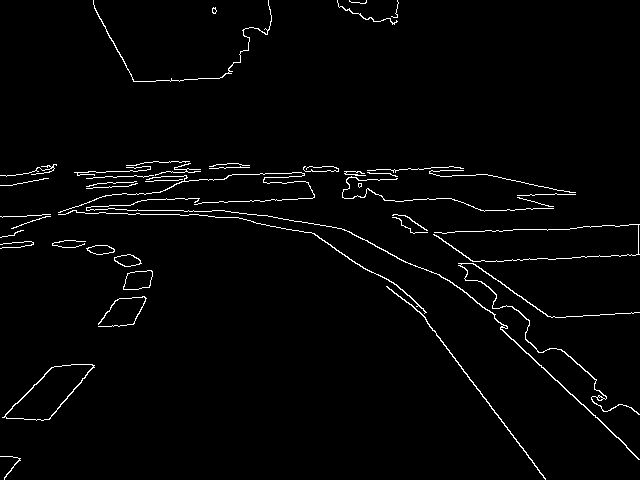
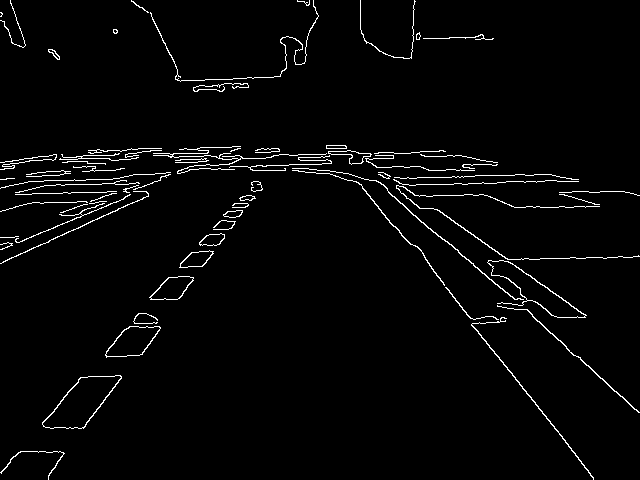
update

diff --git a/testing/lane_tester.py b/testing/lane_tester.py
@@ -18,7 +18,7 @@ def display_lines(frame, lines, line_color=(0, 255, 0), line_width=2):
 
 
 if __name__ == '__main__':
-    frame = cv2.imread("lane_turn.png")
+    frame = cv2.imread("lane_1.png")
     edges, ret = lane_finder.iso_lines(frame)
     cv2.imwrite('testing.png',ret)
     cv2.imwrite('edges.png',edges)

diff --git a/scripts/cameraHost.py b/scripts/cameraHost.py
@@ -105,7 +105,6 @@ class DeepRacerCamera_impl(object):
                         self.ImageStream_pipeclosed(pipe_ep)
     def getCurrentImage(self):
         with self._lock:
-            print(self._image.data)
             return self._image
 
             
